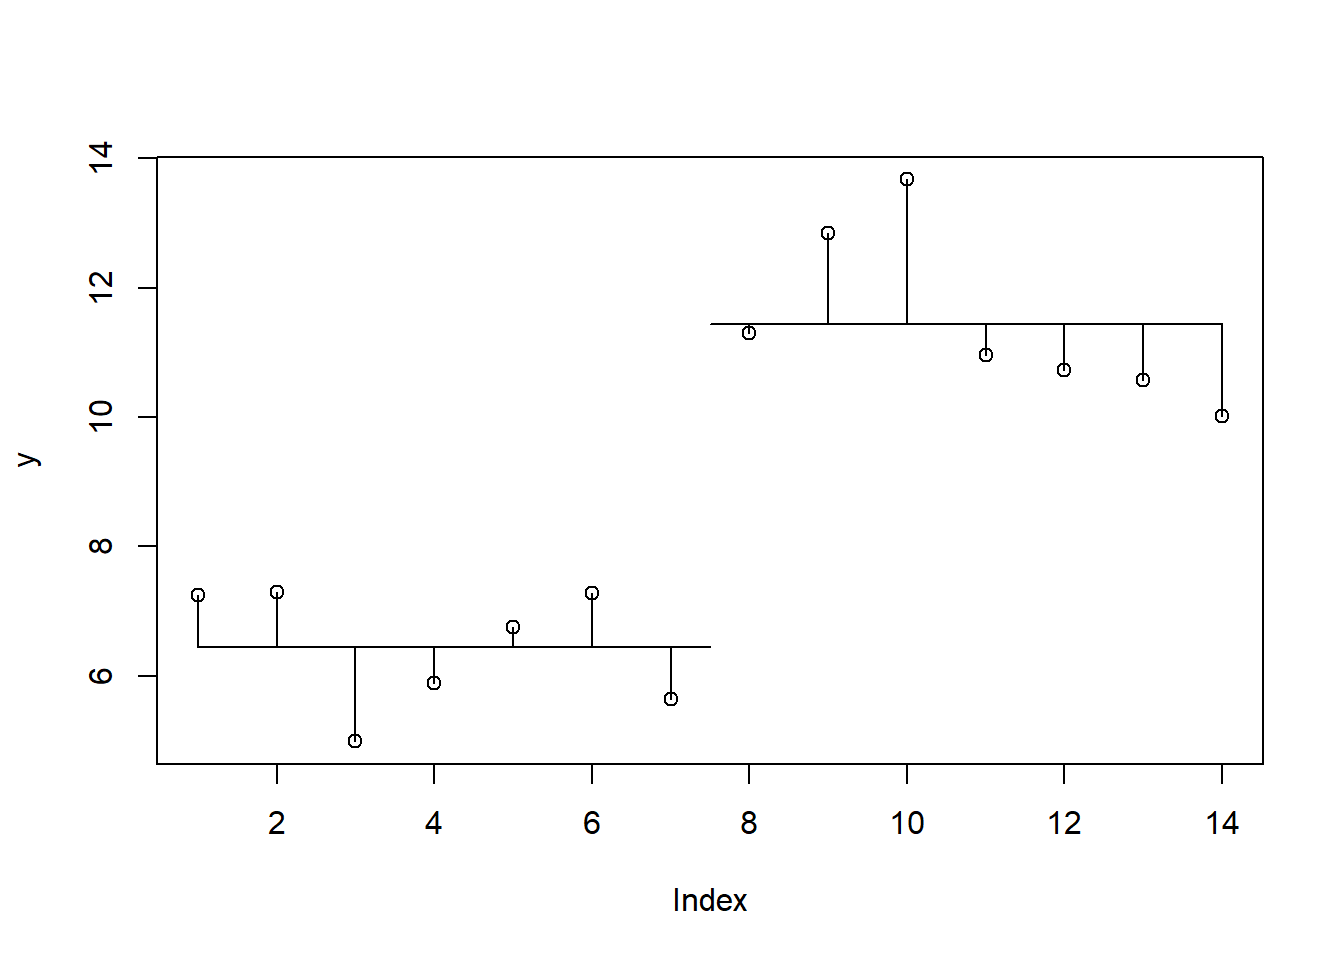
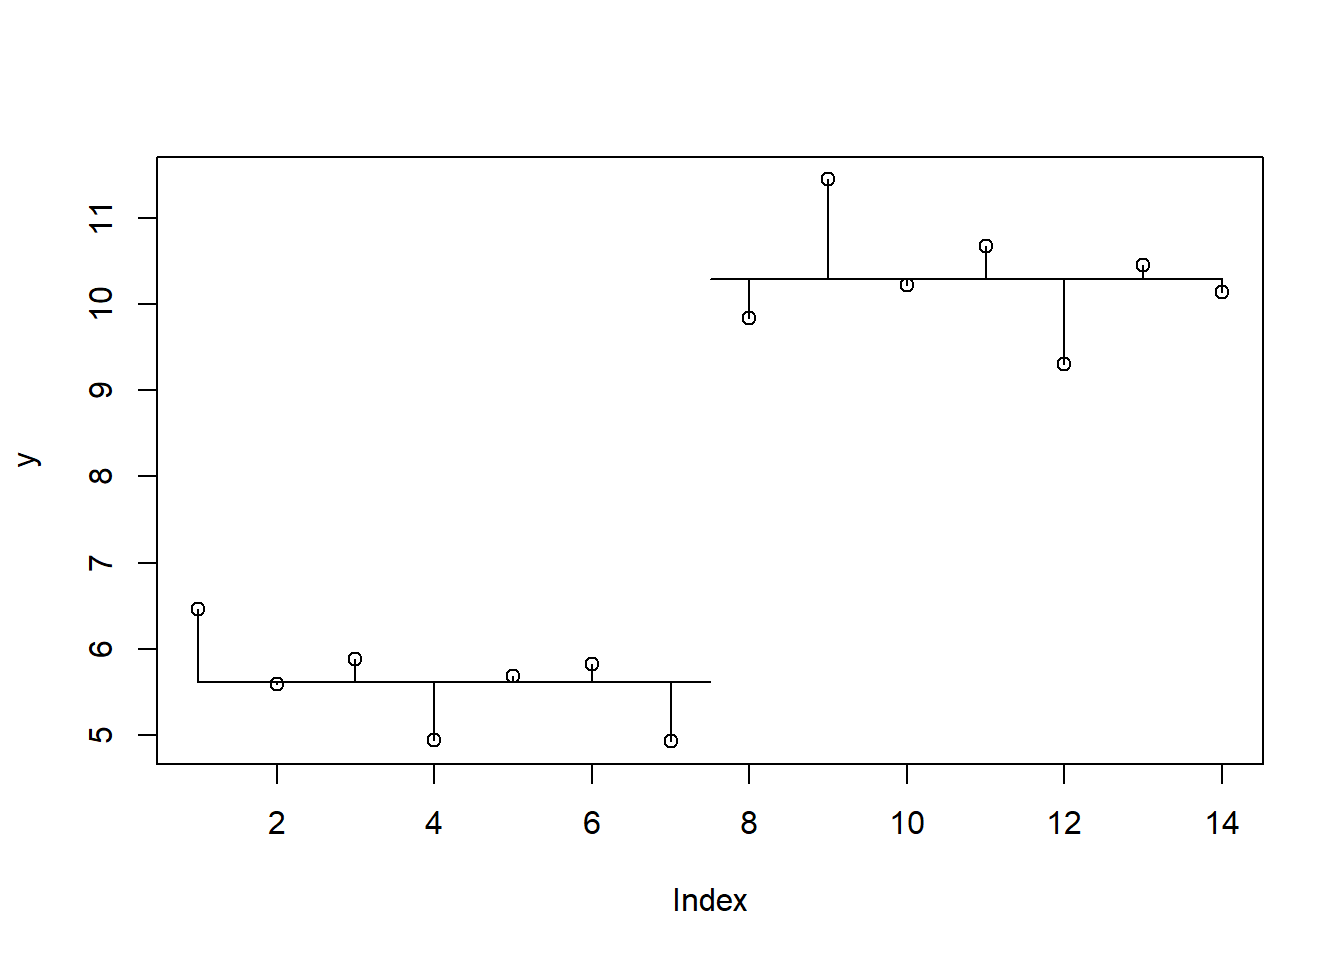
Rescate falla por nombres largos 2

diff --git a/Blog/_site/posts/concepto-y-modelos-experimentar/index.html b/Blog/_site/posts/concepto-y-modelos-experimentar/index.html
@@ -503,7 +503,7 @@ H_0: m_1 = m_2 = m_3 = ... = m_k
 <span id="cb16-2"><a href="#cb16-2" aria-hidden="true" tabindex="-1"></a>dist_med_y</span></code><button title="Copiar al portapapeles" class="code-copy-button"><i class="bi"></i></button></pre></div>
 </details>
 <div class="cell-output cell-output-stdout">
-<pre><code>[1] 35.01117</code></pre>
+<pre><code>[1] 32.702</code></pre>
 </div>
 </div>
 <p>Ahora incorporemos la información del factor <strong><em>f</em></strong>. Para esto hay que calcular los promedios de “y” que corresponden a los niveles de <strong><em>f</em></strong></p>
@@ -515,7 +515,7 @@ H_0: m_1 = m_2 = m_3 = ... = m_k
 </details>
 <div class="cell-output cell-output-stdout">
 <pre><code>        a         b 
- 6.442364 11.443960 </code></pre>
+ 5.619204 10.290919 </code></pre>
 </div>
 </div>
 <p>Grafiquemos esta nueva estructura de datos.</p>
@@ -542,7 +542,7 @@ H_0: m_1 = m_2 = m_3 = ... = m_k
 <span id="cb21-2"><a href="#cb21-2" aria-hidden="true" tabindex="-1"></a>dist_med_s</span></code><button title="Copiar al portapapeles" class="code-copy-button"><i class="bi"></i></button></pre></div>
 </details>
 <div class="cell-output cell-output-stdout">
-<pre><code>[1] 18.70432</code></pre>
+<pre><code>[1] 11.49267</code></pre>
 </div>
 </div>
 </section>
